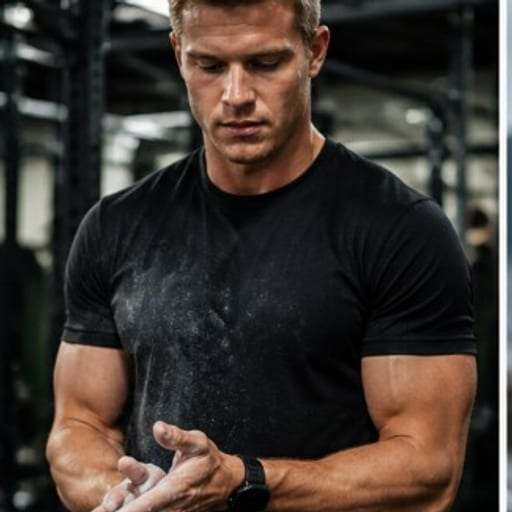
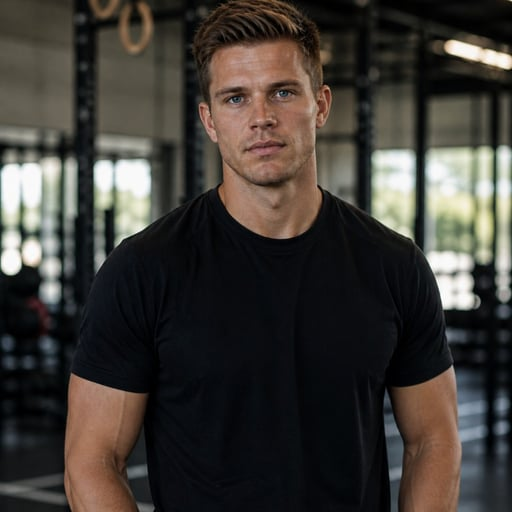
Update team portraits with new individual photos
Replace the triptych-derived portraits with proper individual shots
that match each author's positioning: John in a CrossFit gym, Niklas
running on a mountain trail, Jesper in a relaxed lifestyle setting.

Swap the cropping workflow accordingly: drop the old triptych
splitter and ship a small `crop-individual-portraits.mjs` that takes
one source per person, centres a square crop biased upward to
preserve the face, and writes 512×512 JPGs into public/team/.

diff --git a/public/team/README.md b/public/team/README.md
@@ -18,15 +18,15 @@ Drop a new file under the same filename. Specs we use:
 - Solid or softly-blurred background reads better than a busy scene at
   thumbnail size.
 
-## Re-cropping from a triptych source
+## Re-cropping from individual portrait sources
 
-If you have a horizontal triptych (left/middle/right portraits in one
-image) and want to regenerate all three portraits at once:
+If you have a portrait-orientation source per person and want the
+script to handle the square crop and resize:
 
-1. Save the triptych as `team-source.png` in the repo root.
-2. Run `node scripts/crop-team-portraits.mjs`.
+1. Save the sources in the repo root as `src-john.png`, `src-niklas.png`,
+   and `src-jesper.png`.
+2. Run `node scripts/crop-individual-portraits.mjs`.
 
-The script splits the source into thirds, takes a centred square out of
-each panel, biases the crop upward so the face lands roughly in the
-middle, and writes 512 × 512 JPGs back into this folder. Delete
-`team-source.png` after running.
+The script takes a centred square out of each image, biases the crop
+upward so the face lands roughly in the middle, and writes 512 × 512
+JPGs back into this folder. Delete the `src-*.png` files after running.